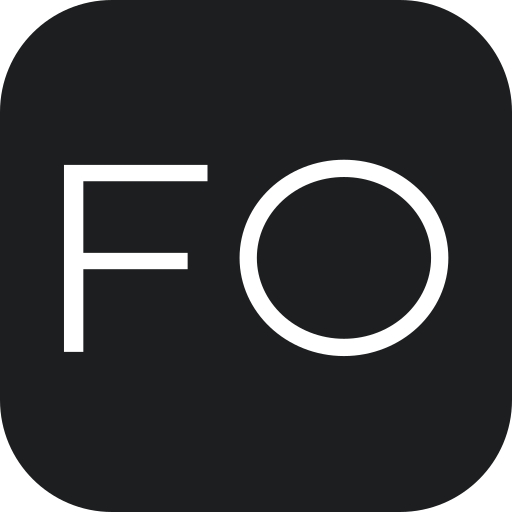
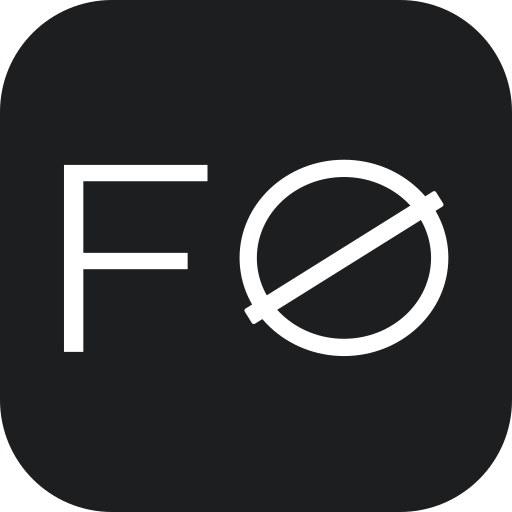
brand(fo): give the FO monogram a signature slash (∅) + roll it everywhere
The charcoal "FO" mark was a plain F + plain O ring — it read as dead, and the
brand's signature "sharp" cut (the slash through the M in the wordmark, and the
slash the old cyan icon had through the O) had been lost in the rebrand.

- Add a sharp diagonal slash through the O (∅) to the FO monogram. Echoes the
  wordmark M-slash; reads clearly from favicon size up to OG.
- Propagate to FoMonogram.tsx (drives every in-app <Logo variant="mark">) and
  the three brand SVGs (mark, mark-tile, mark-tile-light).
- Replace the leftover OLD CYAN SHIELD in the browser/Google surfaces:
  app/icon.svg (favicon SVG) and regenerate app/favicon.ico (16/32/48),
  apple-touch-icon.png (180), icon-192/512 PWA icons from the new tile.
- De-cyan the OpenGraph image: new charcoal/white FO mark, grey eyebrow,
  neutral glow (replaces the cyan "F" box + cyan accents).
- Manifest theme/background → charcoal #1C1E1F.

Changed region(s): [[0.4688, 0.375, 0.875, 0.625]]

diff --git a/app/opengraph-image.tsx b/app/opengraph-image.tsx
@@ -24,15 +24,21 @@ export default function Image() {
       >
         {/* Logo row */}
         <div style={{ display: 'flex', width: '100%', alignItems: 'center', gap: 16 }}>
-          <div style={{ width: 44, height: 44, borderRadius: 12, background: '#00d4fb', display: 'flex', alignItems: 'center', justifyContent: 'center' }}>
-            <div style={{ color: '#0a0f1c', fontSize: 24, fontWeight: 900 }}>F</div>
+          <div style={{ width: 56, height: 56, borderRadius: 14, background: '#1C1E1F', display: 'flex', alignItems: 'center', justifyContent: 'center' }}>
+            <svg width="40" height="40" viewBox="82.96 -2.19 299 299" fill="#ffffff">
+              <polygon points="115.99,156.33 186.28,156.33 186.28,145.32 115.99,145.32 115.99,97.06 199.66,97.06 199.66,86.05 115.99,86.05 113.12,86.05 102.95,86.05 102.95,212.05 115.99,212.05" />
+              <g transform="translate(-55 0)">
+                <path d="M346.62,82.57c-38.79,0-70.35,29.68-70.35,66.15s31.56,66.15,70.35,66.15c38.79,0,70.35-29.68,70.35-66.15S385.41,82.57,346.62,82.57z M346.62,203.23c-32.37,0-58.7-24.45-58.7-54.51c0-30.05,26.33-54.51,58.7-54.51s58.7,24.45,58.7,54.51C405.32,178.78,378.99,203.23,346.62,203.23z" />
+                <rect x="270.62" y="142.5" width="152" height="12" rx="1.5" transform="rotate(-32 346.62 148.5)" />
+              </g>
+            </svg>
           </div>
           <span style={{ color: '#ffffff', fontSize: 22, fontWeight: 700, letterSpacing: '-0.02em' }}>FormaOS</span>
         </div>
 
         {/* Main content */}
         <div style={{ display: 'flex', flexDirection: 'column', gap: 20 }}>
-          <div style={{ color: '#00d4fb', fontSize: 14, fontWeight: 600, letterSpacing: '0.15em', textTransform: 'uppercase' }}>
+          <div style={{ color: '#aeb6c2', fontSize: 14, fontWeight: 600, letterSpacing: '0.15em', textTransform: 'uppercase' }}>
             Compliance Operating System
           </div>
           <div style={{ color: '#ffffff', fontSize: 60, fontWeight: 800, lineHeight: 1.1, letterSpacing: '-0.03em', maxWidth: 860 }}>
@@ -56,7 +62,7 @@ export default function Image() {
           transform: 'translateY(-50%)',
           width: 360, height: 360,
           borderRadius: '50%',
-          background: 'radial-gradient(circle, rgba(0,212,251,0.10) 0%, transparent 70%)',
+          background: 'radial-gradient(circle, rgba(255,255,255,0.07) 0%, transparent 70%)',
         }} />
       </div>
     ),

diff --git a/components/brand/FoMonogram.tsx b/components/brand/FoMonogram.tsx
@@ -1,4 +1,6 @@
-// FormaOS "FO" monogram — tightened from the authentic wordmark geometry.
+// FormaOS "FO" monogram — F + a slashed O (∅). The diagonal slash echoes the
+// brand's signature "sharp" cut (the slash through the M in the wordmark), so
+// the mark reads as deliberate and sharp rather than a dead F + plain ring.
 // Square viewBox, inherits color via fill="currentColor".
 interface MarkProps {
   className?: string;
@@ -18,6 +20,8 @@ export function FoMonogram({ className = "", title = "FormaOS" }: MarkProps) {
       <polygon points="115.99,156.33 186.28,156.33 186.28,145.32 115.99,145.32 115.99,97.06 199.66,97.06 199.66,86.05 115.99,86.05 113.12,86.05 102.95,86.05 102.95,212.05 115.99,212.05" />
       <g transform="translate(-55 0)">
         <path d="M346.62,82.57c-38.79,0-70.35,29.68-70.35,66.15s31.56,66.15,70.35,66.15c38.79,0,70.35-29.68,70.35-66.15S385.41,82.57,346.62,82.57z M346.62,203.23c-32.37,0-58.7-24.45-58.7-54.51c0-30.05,26.33-54.51,58.7-54.51s58.7,24.45,58.7,54.51C405.32,178.78,378.99,203.23,346.62,203.23z" />
+        {/* signature slash — sharp diagonal through the O (∅) */}
+        <rect x="270.62" y="142.5" width="152" height="12" rx="1.5" transform="rotate(-32 346.62 148.5)" />
       </g>
     </svg>
   );
